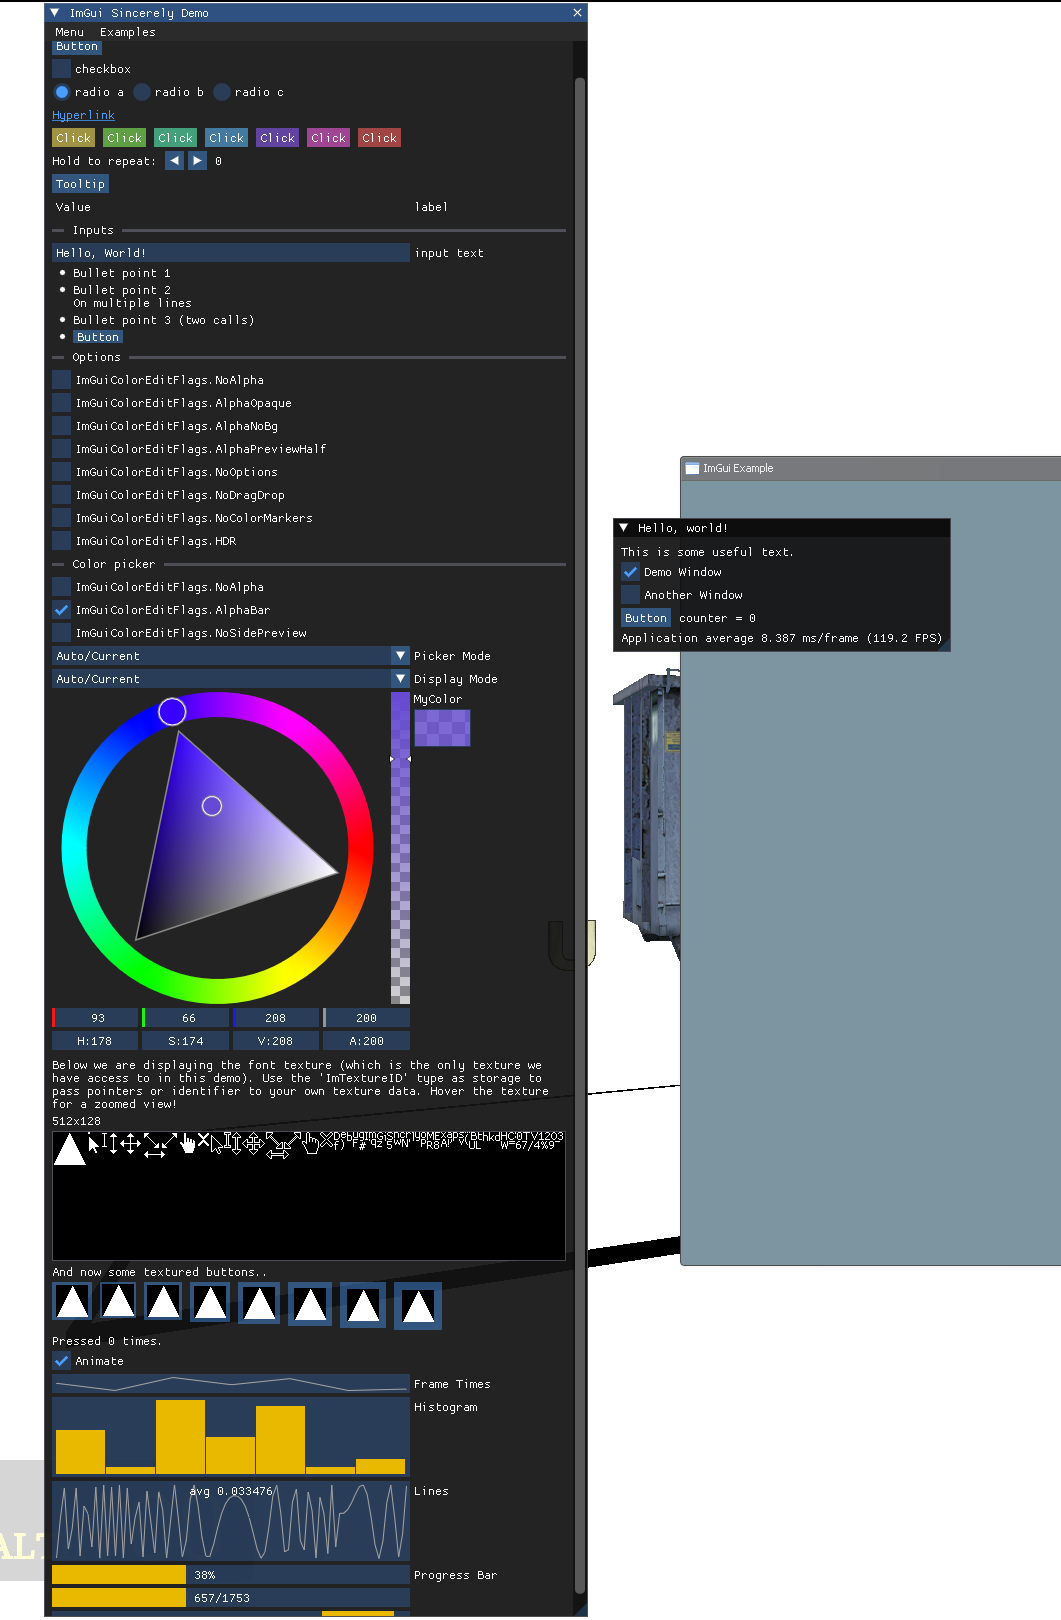
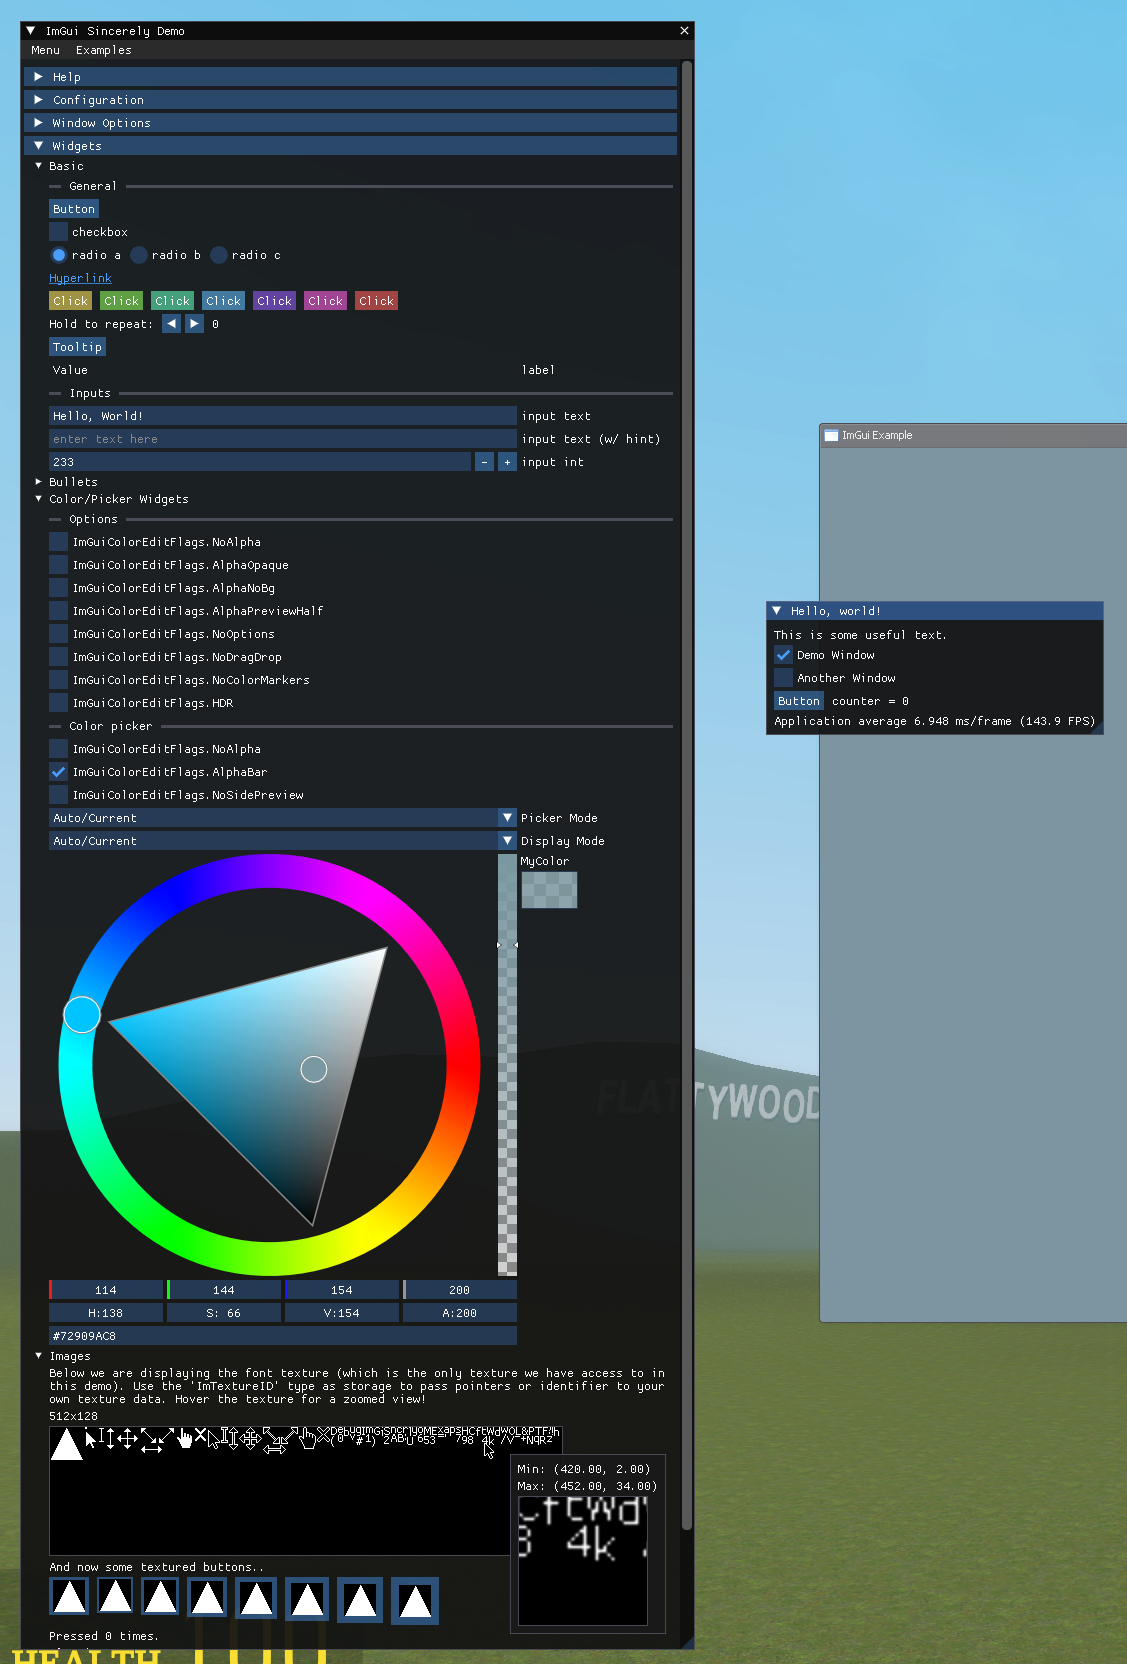
Update README image

diff --git a/README.md b/README.md
@@ -4,7 +4,7 @@
 
 ## Current State
 
-<img src="misc/images/current.png" alt="Example" width="530" height="810">
+<img src="misc/images/current.png" alt="Example" width="550" height="800">
 
 | Subsystems | Stage                            |
 | ---------- | -------------------------------- |